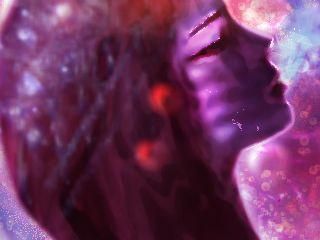
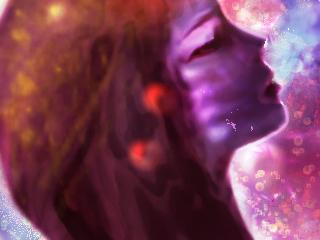
Подновил картины

diff --git a/index.html b/index.html
@@ -220,6 +220,7 @@ function xmlParser(xml) {
 <a href="https://adblockplus.org/">Adblock Plus</a> (или другой, установленный у Вас блокиратор) на этом сайте.
 Если Вы осуждаете действия <a href="https://ru.wikipedia.org/wiki/Ромул_и_Рем">капитолийской волчицы,
 вскормившей Ромула и Рема</a>, или троллите её — пожалуйста покиньте этот сайт.
+Если вас личная неприязнь к Гигиее или её сосуду — пожалуйста покиньте этот сайт. <!-- Мой силуэт --><img src="../images/theme/Hygieia-bowl.svg" alt="Сосуд Гигиеи" title="Сосуд Гигиеи" width="100" height="100"></p>
 Я делаю этот сайт (но больше это относится к разрещённым на нём материалам) — потому что могу.
 Этот сайт отражает мои идеи и взгляды на мир. Для этого он и существует.
 Куча непонятных вам вещей ожидает на пути. Но если разберётесь в них, то станете со мной солидарны.
@@ -236,8 +237,9 @@ function xmlParser(xml) {
 Представленные на этом сайте работы говорят за себя, сколько красочных материалов может изготовить человек,
 как вы наверное подумали — не имея совершенно никакой мотивации...
 На самом же деле моя мотивация вам будет чужда: я боюсь, именно поэтому и делаю.
-Я порой рисую крутую картину, не создаю резевной копии, боюсь что она пропадёт — именно поэтому и делаю её дальше.
-<br>Я немного китаист. Теперь +1.</p>
+Я порой рисую крутую картину, не создаю резевной копии, боюсь что она пропадёт — именно поэтому и делаю её дальше. Я рисую сложные шедевры играючи.
+<br>Я немного китаист. Теперь +1.
+<br>Мультяшные персонажи, которые меня радуют: Чебурашка (наш, не японский), папа из Музыкальной Шкатулки, все персонажи Арменфильма, Генератор Рекс, Самурай Джек, Виктор Вольт.</p>
 
 <h3 id="terms">Термины сайта</h3>
 <!-- Флаг РФ --><p><img id="FlagRF" alt="Флаг РФ" title="Флаг Российской Федерации — нашего государства" src="../images/theme/FlagRF.png" height="92" width="122"></p>
@@ -284,7 +286,8 @@ function xmlParser(xml) {
 <h3 id="previously">Ранее</h3>
 <p><b>Ранее я был известен и под другими псевдонимами. Сверху вниз — от более нового к более старому:</b></p>
 <ul>
-<li>Fohroer, Mars Dukalis/Fohroer, Марс Дукалис/Фохроер (тогда был сайт sozidation.ru, размещённый на хостинге Sprinthost). На текущий момент я добавил ссылку на старый сайт — теперь с sozidation.ru и fohroer.ru можно удобно перейти на текущий сайт!</li>
+<li>Fohroer, Mars Dukalis/Fohroer, Марс Дукалис/Фохроер (тогда был сайт sozidation.ru, размещённый на хостинге Sprinthost).
+Ныне sozidation.ru и fohroer.ru отключены за неуплату.</li>
 <li>Samboq, Самбок Тёмнопрокатов (тогда был сайт samboq.gq, размещённый на хостинге Sprinthost)</li>
 <li><a href="http://буранчик.рф/images/other/dvesobaki.png">Две собаки зовут на вечеринку, а ещё Les Temps de swag (Российский рейв с французским акцентом)</a> (тогда был сайт buranek.ru)</li>
 <li>Terentium, Терентий Благородный, позже (Кент) Дукалис, позднее Терентий Грейхаундец (тогда был всё ещё buranek.ru, но уже на Ruxe Engine,
@@ -293,10 +296,11 @@ function xmlParser(xml) {
 <li>Буранчик, Бураня, Буран (тогда был сайт buranek на хостинге freewebhost (не помню адрес уже),
 потом buranek.site90.net (на хостинге 000webhost), потом buranek.22web.net (на хостинге Freewebhost), потом buranek.tk — это был октябрь 2010 года (переадресовывал на buranek.22web.net),
 затем buranek.ru на SMF (размещённый на хостинге Majordomo, а затем — на хостинге Sprinthost, тогда это одно время называлось "Посторонним Ы",
-а потом я заметил, что такое название уже кто-то придумал помимо меня, посему отказался от него и взял название "Поторонним Литера", с которым пробыл достаточно долго, вроде даже около года).
-В это же время выпускал музыку под псевдонимом Dj CoolStuck,
+а потом я заметил, что такое название уже кто-то придумал помимо меня и зайдействовал (то есть вполне живой бложик там был),
+посему я отказался от него и взял название "Поторонним Литера", с которым пробыл достаточно долго, вроде даже около года).
+В это же время, а также и позже, вроде как вплоть до 2014, я выпускал музыку под псевдонимом Dj CoolStuck,
 успел сделать <a href="https://www.youtube.com/watch?v=Ud1VnXdL1kY">совместку</a> с
-<a href="https://www.youtube.com/user/Blu6homie">Bluehomie</a> (он грек по имени Ставрос Ойкономоу-Мпегетис)
+<a href="https://www.youtube.com/user/Blu6homie">Bluehomie</a> (он грек по имени Ставрос Ойкономоу-Мпегетис, но исполняет исключительно на английском языке)
 и даже <a href="http://www.starcentralmagazine.com/male-artist-of-the-month/2015/03/14/male-artist-of-the-year-bluehomie/">засветился небольшом австралийском журнале StarCentral</a>,
 в статье про участие в творчестве исполнителя года среди мужчин (по версии этого журнала).
 Искать в конце статьи, я там иду вслед за Diatonator.</li>

diff --git a/кромок/index.html b/кромок/index.html
@@ -103,20 +103,22 @@ $( document ).ready(function() {
 
 <p><a class="fancybox" href="../images/articles/or/cromok-trashing.jpg" data-fancybox-group="gallery" title="Cromok Trashing Cuala Lumpur"><img src="../images/articles/th/cromok-trashing.jpg" alt="Картинка" /></a></p>
 <p>Почему-то на плакате стоят только три человека, хотя вы увидите, что их четверо, если посмотрите видео с концерта.</p>
-<p>Эта группа не может быть плохой, ведь в ней оказался малазийский <a href="https://ru.wikipedia.org/wiki/Морфеус">Морфеус</a>.</p>
+<p>Эта группа не может быть плохой, ведь в ней
+оказался малазийский <a href="https://ru.wikipedia.org/wiki/Морфеус">Морфеус</a> (ну, по крайней мере очень похожий на него человек).</p>
 
 <br><h2 id="history">История группы</h2>
 <p><br>Признанный участник Дин закончил учёбу и покинул Австралию раньше, чем его соотечественники (Сэм, Карл и Мижи).
 После того, как Дин покинул группу, он вернулся в Малайзию и сформировал там свою группу, известную под названием D'Cromok.
 В конце концов, оставшиеся трое вернулись и стали исполнять без их четвёртого участника.
-Смешивая малайзийские культурные и музыкальные влияния с портовым трешем и Европейским металлическим стилем вокала
+Смешивая малайзийские культурные и музыкальные влияния с портовым трешем и европейским металлическим стилем вокала
 они завоевали сердца слушателей в Малайском металлическом мире и разумы других групп со своим альбомом "Image of Purity"
-1991 года. Их самозванное предприятие вплоть до 2004 года — успешный результат в рок-подполье.
+1991 года выпуска. Их самозванное предприятие продержалось вплоть до 2004 года — успешный результат в рок-подполье.
 <br>Лично я в восторг пришёл от альбома "Mean Meaner The Meanest"!
 <br>В 2005, группа решила подчеркнуть доминанту своего пути — и сделала прозвище Cromok своим постоянным погонялом.
-Один участник даже решил вернуться в свою старую группу.
-Трагично, но признанный участник Дин скончался в 90-х годах после того, как выпустил
-свой собственный альбом "VII Years VII Days".</p>
+Один участник даже решил вернуться в свою старую группу. Трагично, но признанный участник Дин скончался в 90-х годах после того, как выпустил
+свой сольный альбом "VII Years VII Days" (хотя в магазинах он значится как альбом группы D'Cromok).
+Как я понимаю, вторую часть альбома "VII Years VII Days" друзья Дина выпустили уже после его смерти,
+так как мертвец был просто не в состоянии заниматься мастерингом треков из-за своего нулевого пульса и полной невозможности управлять компьютером.</p>
 
 <br><h2 id="meaning">Значение</h2>
 <!-- Логотип --><p><img id="Cromok" alt="Обложка Cromok Anthology" title="Обложка альбома Cromok - Anthology" src="../images/articles/or/cromok-anthology.jpg" height="400" width="400"></p>
@@ -141,7 +143,7 @@ $( document ).ready(function() {
 <li><a href="http://www.metal-archives.com/bands/Cromok/">Cromok на ENCYCLOPEDIA METALLUM</a>.</li>
 </ul>
 
-<p>Статья была написана стопицот лет назад и представлена здесь 2016/09/19 и доработана 2016/09/21.</p>
+<p>Статья была написана стопицот лет назад и представлена здесь 2016/09/19 и доработана 2016/12/16.</p>
 
 </div>
 <div id="right">

diff --git a/тайские-кремы/index.html b/тайские-кремы/index.html
@@ -127,17 +127,19 @@ $( document ).ready(function() {
 
 <p>Также, Вам может быть полезен крем <b>Pasjel</b> из Тайланда. На AliExpress он представлен как <i>крем от растяжек</i>.
 Этот крем <b>помогает заживить</b> рубцы, оставшиеся после хирургической операции, шрамы, стяжки и <b>растяжки</b>.
-А также он отбеливает кожу. Имеет сильный и приятный аромат огурца (хотя, Вы должно быть, подумали, что
+А также он отбеливает кожу. Ещё им можно разглаживать сухую кожу на ногах. При применении крем нужно наносить в значительном
+количестве (примерно 1/6 часть чайной ложки.), так чтобы он покрывал поражённый участок и блестел. Впитывается в кожу он довольно быстро.
+Имеет сильный и приятный аромат огурца (хотя, Вы должно быть, подумали, что
 <a href="https://ru.wikipedia.org/wiki/Дыня">дыни</a>). Густой. Распространяется в контейнерах по 50 мг,
-которые в свою очередь запакованы в коробки. Срок годности крема указан только на коробке.</p>
+которые в свою очередь запакованы в коробки. Срок годности крема указан только на коробке. Инструкцию к крему в коробки не кладут.</p>
 
 <br>
 <p><a class="fancybox" href="../images/articles/or/thaicreams3.jpg" data-fancybox-group="gallery" title="Pasjel контейнер."><img src="../images/articles/th/thaicreams3.jpg" alt="Фотография" /></a></p>
-<p><i>Банка крема Pasjel</i> (под крышечкой находится защитная пластмассовая пластинка)</p>
+<p><i>Контейнер крема Pasjel</i> (под крышечкой находится защитная пластмассовая пластинка)</p>
 
 <br>
 <p><a class="fancybox" href="../images/articles/or/thaicreams4.jpg" data-fancybox-group="gallery" title="Pasjel внутри."><img src="../images/articles/th/thaicreams4.jpg" alt="Фотография" /></a></p>
-<p><i>Банка крема Pasjel</i> (под крышечкой находится защитная пластмассовая пластинка)</p>
+<p><i>Контейнер крема Pasjel</i> (под крышечкой находится защитная пластмассовая пластинка)</p>
 
 <br>
 <h3>Пожалуйста, обратите внимание на то, что этот крем является лекарственным средством!!!
@@ -208,6 +210,9 @@ $( document ).ready(function() {
 а до пункта доставки Вам придётся ехать на транспорте — а это дополнительные расходы.
 К тому же, Вам не придётся по душе цена этих кремов в отечественных Интернет-магазинах
 (Pasjel в РФ стоит 450 рублей, а на AliExpress он стоит около 150 рублей, доставка бесплатная).
+Рекомендую продавца Alex Wang для заказа Pasjel.
+<br>Не забывайте при заказе товара, для которого критично побиться или пролиться,
+в примечании указывать "Please pack carefully.", чтобы для Вас хорошо запаковали этот товар.
 
 Но если Вам необходимо срочно приобрести крем — придётся раскошелиться.</p>
 

diff --git a/казуу/index.html b/казуу/index.html
@@ -201,7 +201,7 @@ $( document ).ready(function() {
 </p>
 
 <p><br>Также, в басовом режиме можно использовать флейту как синтезатор необычного голоса более эффективно.
-<br>Не забудьте запастить бумажными платками и влажными салфетками. Бумажными платками Вы будете протирать флейту внутри
+<br>Не забудьте запастись бумажными платками и влажными салфетками. Бумажными платками Вы будете протирать флейту внутри
 (для этого её нужно открыть, она просто встаёт засчёт сжатия металла, пазов нет).
 Влажными салфетками Вы будете вытирать руки, залитые слюной.
 <br>Можно обзавестись модными перчатками (всё на том же AliExpress), чтобы плевать в них.

diff --git a/контолк/index.html b/контолк/index.html
@@ -153,7 +153,7 @@ $( document ).ready(function() {
 <li>Смайлики и пиктограммы (множество);</li>
 <li>Отправка фотографий и доставка их в оффлайн;</li>
 <li>Статусы;</li>
-<li>Группы пользователей (через задницу сделано);</li>
+<li>Группы пользователей (сделано так, что непригодно для использования: нужно запомнить команды, а потом вводить их в чат);</li>
 <li>RSA шифрование сообщений (выполнено через <a href="https://xmpp.org/extensions/xep-0374.html">XEP имплементацию 0374</a>);</li>
 <li>Связь с обычными Jabber контактами (при условии, что добавление контакта произведут с их стороны);</li>
 <li>Недописанное сообщение сохраняется в черновик.</li>
